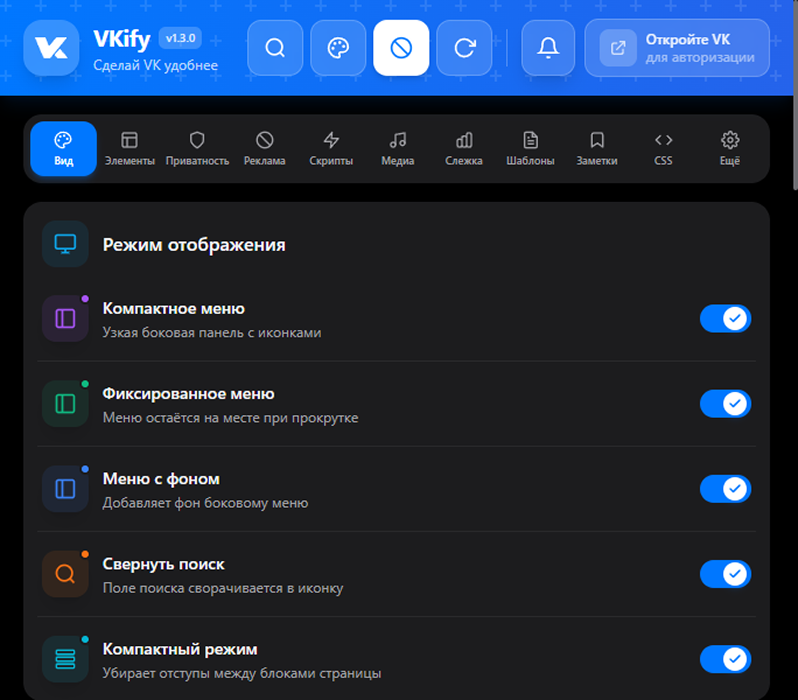
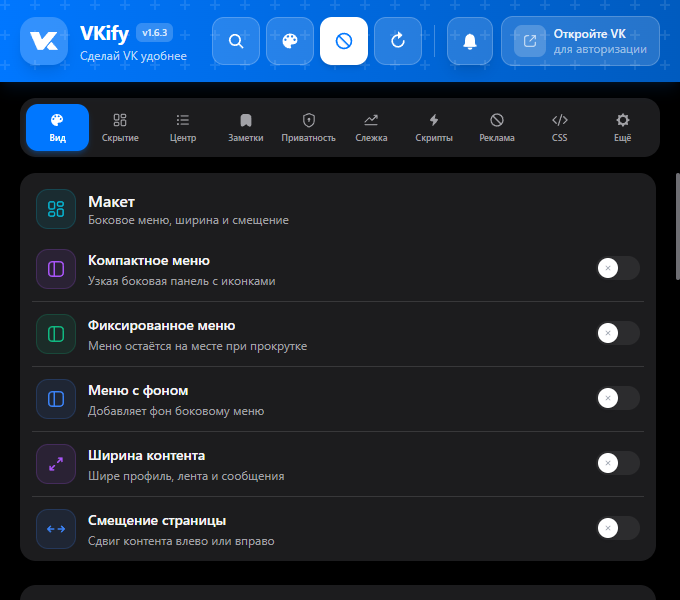
Revamp README content and update preview image
Rewrite and expand both English and Russian READMEs: reorganized and detailed feature sections (Appearance, Layout & navigation, Clean feed & ad blocking, Hiding elements, Privacy, Center/Hub, Activity tracking, Automation, Tools & settings), added specifics such as 72 themes, 60+ Google Fonts, message encryption (COFFEE and VKify E2E AES-256-GCM with PBKDF2), search hotkey (Ctrl/Cmd+K), download center behavior, cross-browser notes, and many UX clarifications to improve user-facing documentation. Also replaces the extension preview image (.github/assets/extension-preview.png).

diff --git a/README.md b/README.md
@@ -34,67 +34,91 @@
 
 ## Возможности
 
-### 🎨 Внешний вид (`Вид`)
-- 70+ готовых тем и тонкая настройка своими цветами
-- 60+ шрифтов и фоновые обои — картинки, видео, анимации
-- Регулировка скруглений, ширины контента, смещения страницы
-- Визуальные фильтры — ч/б, сепия, инверсия, высокий контраст и др.
-- Компактный режим, минималистичное и фиксированное меню
-- Редактор своего CSS со снипетами и подсветкой синтаксиса
+VKify собирает в одном расширении всё, чего обычно не хватает во ВКонтакте: оформление под себя, чистую ленту без рекламы, приватность переписки, скачивание медиа и инструменты для сообщений. Настройки открываются в попапе (10 вкладок) или прямо на странице — `vk.com/vkify_settings`. По `Ctrl/Cmd + K` работает поиск по всем функциям.
 
-### 🧩 Элементы (`Элементы`)
-- Прячьте то, что не нужно: истории, рекомендации, эмодзи-статус, мини-чат, кнопку «наверх», баннеры и пр.
+### Оформление
 
-### 🛡 Реклама (`Реклама`)
-- Реклама в ленте — два независимых фильтра (один режет до показа, второй чистит то, что просочилось)
-- Боковые баннеры
-- Блокировка трекеров и счётчиков
-- Свой список слов для блокировки и whitelist
-- Журнал заблокированного, чтобы видеть, что и за что было скрыто
+- 72 встроенные темы в 11 категориях (Classic, Soft, AMOLED, Colored, Neon, Nature, Minimal, Retro, Warm, Cool) и автоматическое переключение свет/тьма
+- Свой акцентный цвет для всей палитры интерфейса
+- Более 60 шрифтов через Google Fonts с настройкой размера, межстрочного интервала, насыщенности и стиля
+- Обои страницы: статичные картинки, видео и HTML-анимации, с размытием, затемнением и прозрачностью
+- Визуальные фильтры для изображений: чёрно-белый, сепия, инверсия, контраст, размытие, затемнение
+- Настраиваемый радиус скругления и форма аватарок (капля, лист, лепесток, клякса)
 
-### 🔒 Приватность (`Приватность`)
-- Шифрование сообщений — современный формат VKify E2E и совместимый COFFEE (Kate Mobile, VK Coffee, Laney, Vika)
-- Скрытие конкретных диалогов
-- Горячая клавиша «спрятать переписку» одним нажатием
-- Размытие страницы, когда окно теряет фокус
+### Макет и навигация
 
-### ⚡ Скрипты (`Скрипты`)
-- Прямые ссылки — обход редиректа `away.php`
-- Автодобавление в друзья по таймеру
-- Переключатель раскладки горячей клавишей
+- Широкий режим с адаптивным двухколоночным профилем
+- Настраиваемая ширина контента
+- Компактный режим — убирает лишние отступы между блоками (классический VK и VKUI)
+- Смещение страницы до ±600 px для широких мониторов
+- Минималистичное левое меню с подсказками и фиксацией при прокрутке
+- Скрытие отдельных пунктов и счётчиков левого меню ВКонтакте
+- Перестановка панелей мессенджера: список бесед справа, открытый диалог слева
+- Сворачивающийся поиск, кнопка «Наверх», скелетон-режим при загрузке
 
-### 👁 Слежка (`Слежка`)
-- Активность в сообщениях — печатает, читает, удаляет, заходит в звонок и т.п.
-- Онлайн-мониторинг с историей и графиками
-- Отслеживание профилей — смена аватара, статуса, числа друзей
-- Браузерные уведомления, отдельный список и журнал для каждой подсистемы
+### Чистая лента и блокировка рекламы
 
-### 🗂 Центр (`Центр`) — хаб со страницами
-Вкладка-контейнер с внутренними страницами (компактная навигация слева, как разделы в VK) — чтобы не плодить вкладки. Доступные страницы:
-- **Мессенджер** — всё про переписку в одном месте:
-  - **Быстрое копирование** — кнопка-копия у каждого сообщения. Shift+клик копирует диапазон
-  - **Экспорт диалогов** в JSON, TXT, HTML, HTML с фото внутри файла, ZIP-архив с папкой `photos/`. Встроенный поиск в экспорте и опция «расшифровать сохранённым ключом»
-  - **Шаблоны сообщений** с переменными (`%first_name%`, `%time%`, `%date%`, `%br%`) и прикреплёнными файлами; триггеры — «/» в начале строки, горячая клавиша, автоподсказка; опция «отправлять сразу»
-  - **Заметки** — кнопка-закладка у сообщения сохраняет его в локальный архив с поиском по тексту/автору/чату; всё хранится только у вас
-- **Плеер** — хоткеи плеера: пауза, переключение, перемотка, скорость. Можно сделать глобальными (работают с любой вкладки браузера)
-- **Лента** — разворачивание текста постов и скачивание историй (фото и видео) одним нажатием
-- **Видео** — скачивание видео с vkvideo.ru с выбором качества до 1080p
-- **Клипы** — скачивание VK Clips с выбором качества до 1080p
-- **Фото** — скачивание отдельного фото или целого альбома (ZIP) в подпапку
-- **Музыка** — сохранение треков в MP3 (теги, обложка, текст песни), загрузка нескольких треков сразу и автозапуск музыки после перезагрузки страницы
+- Блокировка левого рекламного блока
+- Блокировка рекламы в ленте на уровне API и отдельно через DOM-фильтр со своим списком ключевых слов
+- Блокировка трекеров и аналитики: Яндекс.Метрика, Google Analytics, Facebook Pixel и другие
+- Журнал блокировок с фильтрами, пагинацией и JSON-снимком для API-блокировок
 
-### 💻 CSS (`CSS`)
-- Встроенный редактор с подсветкой и автоматическим форматированием
-- Готовые сниппеты, импорт/экспорт
+### Скрытие элементов интерфейса
 
-### ⚙ Прочее (`Ещё`)
-- Тур по возможностям при первом открытии
-- Экспорт / импорт настроек, сброс к дефолтам
-- **Поиск по функциям** — `Ctrl/Cmd+K` открывает палитру со всеми возможностями расширения. Выбор результата — попап сам прыгает к нужной секции и подсвечивает её
-- **⭐ Избранные функции** — отмечайте те, которыми пользуетесь чаще: они закрепляются сверху списка
-- **Быстрые действия в шапке** попапа — поиск, тема, реклама, обновление активной вкладки
-- **Настройки прямо на странице VK** — откройте `vk.com/vkify_settings` или выберите «Настройки VKify» в выпадающем меню профиля
-- Поддержка vk.com, vk.ru, vkvideo.ru
+- Истории в ленте и истории возможных друзей на профиле
+- Блок написания поста и комментарии под постами
+- Рекомендации, карусель «возможные друзья», эмодзи-статус у имени
+- Промо-блок на профиле и реклама в музыке
+- Мини-чат, кнопка «Наверх», попап входа о новом сеансе
+- Пункты меню, счётчики, «Настройки» в меню
+- Недавние сообщества и рекомендуемые каналы в мессенджере
+
+### Приватность
+
+- Шифрование сообщений двумя протоколами: COFFEE (совместим с Kate Mobile, Laney, Vika) и VKify E2E v2 на AES-256-GCM с PBKDF2; входящие расшифровываются автоматически
+- Режим невидимки: вас не видно в сети, и при этом вы не видите чужой онлайн
+- Не показывать собеседнику «печатает» и не отмечать сообщения прочитанными
+- Скрытие переписок по горячей клавише и список спрятанных чатов
+- Размытие страницы при потере фокуса окна
+
+### Центр
+
+Хаб с инструментами для переписки, ленты и медиа — устроен как разделы VK, с левым рейлом и подстраницами.
+
+- **Сообщения** — быстрое копирование последнего сообщения, экспорт диалога в JSON, TXT, HTML или ZIP с вложениями, шаблоны и заметки
+- **Шаблоны** — редактор с переменными (`%first_name%`, `%title%`, `%date%` и др.), вызов по «/» или горячей клавише, режим «отправить сразу»
+- **Заметки** — привязка к диалогам, поиск по содержимому, закрепление, группировка по дням с аватарами авторов
+- **Лента** — раскрытие текста длинных постов, скачивание историй
+- **Видео** — скачивание с выбором качества от 1080p до 240p
+- **Клипы** — скачивание VK Clips с выбором качества
+- **Фото** — скачивание отдельных фото и целых альбомов в ZIP (до 1000 за запрос)
+- **Музыка** — скачивание треков и альбомов в MP3 с выбором битрейта (128/192/320), ID3-тегами и обложкой, подбором текста песни и форматом имени файла; пакетная загрузка со страницы аудио и мульти-загрузка своих файлов
+- **Плеер** — горячие клавиши аудиоплеера (play/pause, перемотка, скорость), локальные и глобальные через `chrome.commands`, автозапуск музыки после перезагрузки страницы
+- Центр загрузок на странице: прогресс, отмена в один клик с сохранением уже скачанного, фоновая работа
+
+### Слежка
+
+- Активность в сообщениях через перехват LongPoll: печать, голосовые, медиа, прочтение, редактирование, удаление (с текстом удалённого), входящие, звонки, смена невидимки
+- Онлайн-мониторинг: заходы и выходы, история и недельные графики, настраиваемый интервал опроса
+- Отслеживание профилей: смена аватара, статуса и числа друзей
+- Браузерные уведомления для всех подсистем, добавление пользователя из друзей, диалогов или по ID
+
+### Автоматизация
+
+- Авто-добавление друзей с лимитами и задержками
+- Переключатель раскладки клавиатуры (ru↔en) по горячей клавише
+- Обход away.php — внешние ссылки открываются напрямую, минуя редирект VK
+
+### Инструменты и настройки
+
+- Встроенный CSS-редактор с подсветкой, форматтером, живым превью и готовыми сниппетами
+- Экспорт и импорт настроек (статистика при импорте сохраняется)
+- Расшаренные темы по ссылке — параметр `vkify_theme` в URL применяет тему одним кликом
+- Встроенная страница настроек на vk.com и пункт «Настройки VKify» в меню профиля
+- Панель диагностики с кнопкой «Копировать отчёт» для багрепортов
+- Онбординг-тур при первом запуске
+- Поддержка vk.com, vk.ru и vkvideo.ru
+- Кросс-браузерность: Chrome, Firefox и Opera из единой кодовой базы
 
 ---
 

diff --git a/README.en.md b/README.en.md
@@ -34,68 +34,91 @@
 
 ## Features
 
-### 🎨 Appearance (`Вид` tab)
-- 70+ ready-made themes plus full custom color tweaking
-- 60+ fonts and wallpapers — images, videos, animations
-- Border radius, content width and page offset adjustments
-- Visual filters — grayscale, sepia, invert, high contrast and more
-- Compact mode, minimalistic and fixed sidebar
-- Custom CSS editor with snippets and syntax highlighting
+VKify packs everything VK usually lacks into one extension: your own look, an ad-free feed, private messaging, media downloads and messaging tools. Settings open in the popup (10 tabs) or right on the page at `vk.com/vkify_settings`. Press `Ctrl/Cmd + K` for search across every function.
 
-### 🧩 Elements (`Элементы` tab)
-- Hide what you don't need: stories, recommendations, emoji status, mini-chat, "back to top" button, banners, etc.
+### Appearance
 
-### 🛡 Ads (`Реклама` tab)
-- Feed ads — two independent filters (one cuts before render, the other cleans whatever slipped through)
-- Sidebar banners
-- Tracker and analytics blocker
-- Custom block-word list and whitelist
-- Block log so you can see what was hidden and why
+- 72 built-in themes across 11 categories (Classic, Soft, AMOLED, Colored, Neon, Nature, Minimal, Retro, Warm, Cool) plus automatic light/dark switching
+- Custom accent color for the whole interface palette
+- 60+ fonts via Google Fonts with size, line-height, weight and style controls
+- Page wallpapers: static images, video and HTML animations, with blur, dimming and opacity
+- Visual image filters: grayscale, sepia, invert, contrast, blur, dimming
+- Adjustable corner radius and avatar shape (drop, leaf, petal, blob)
 
-### 🔒 Privacy (`Приватность` tab)
-- Message encryption — modern VKify E2E and compatible COFFEE format (Kate Mobile, VK Coffee, Laney, Vika)
-- Hide specific dialogs
-- Hotkey to instantly hide open dialogs
+### Layout & navigation
+
+- Widescreen mode with an adaptive two-column profile
+- Custom content width
+- Compact mode that removes extra spacing between blocks (classic VK and VKUI)
+- Page offset up to ±600 px for wide monitors
+- Minimalistic left menu with tooltips and fixed-on-scroll positioning
+- Hide individual left-menu items and their counters
+- Swap messenger panels: conversation list on the right, open dialog on the left
+- Collapsible search, back-to-top button, skeleton mode while loading
+
+### Clean feed & ad blocking
+
+- Block the left ad block
+- Block feed ads at the API level and, separately, via a DOM filter with its own keyword list
+- Block trackers and analytics: Yandex.Metrica, Google Analytics, Facebook Pixel and others
+- Block log with filters, pagination and a JSON snapshot for API blocks
+
+### Hiding interface elements
+
+- Feed stories and the "people you may know" stories on profiles
+- The post composer and comments under posts
+- Recommendations, the "people you may know" carousel, the emoji status next to your name
+- The promo block on profiles and ads in the music section
+- Mini-chat, the back-to-top button, the new-session login popup
+- Menu items, counters and the "Settings" menu entry
+- Recent communities and recommended channels in the messenger
+
+### Privacy
+
+- Message encryption with two protocols: COFFEE (compatible with Kate Mobile, Laney, Vika) and VKify E2E v2 on AES-256-GCM with PBKDF2; incoming messages are decrypted automatically
+- Invisible mode: you stay hidden online and, in turn, can't see others' online status
+- Hide "typing…" from the other person and don't mark messages as read
+- Hide conversations with a hotkey, plus a list of hidden chats
 - Blur the page when the window loses focus
 
-### ⚡ Scripts (`Скрипты` tab)
-- Direct links — bypasses the `away.php` redirect
-- Auto add friends on a timer
-- Keyboard layout converter via hotkey
+### Center
 
-### 👁 Online Spy (`Слежка` tab)
-- Message activity — typing, reading, deleting, joining calls and so on
-- Online monitor with history and weekly charts
-- Profile tracker — avatar, status and friend count changes
-- Browser notifications, separate list and log per subsystem
+A hub for messaging, feed and media tools, built like VK's own sections with a left rail and subpages.
 
-### 🗂 Hub (`Центр` tab) — pages container
-A container tab with inner pages (compact left rail, VK-style sections) so the
-top bar doesn't keep growing. Available pages:
-- **Messages** — everything about conversations in one place:
-  - **Quick copy** — copy button next to every message. Shift-click copies a range
-  - **Dialog export** to JSON, TXT, HTML, HTML with embedded photos, or ZIP with a `photos/` folder. Built-in search and an option to decrypt with your saved key
-  - **Message templates** with variables (`%first_name%`, `%time%`, `%date%`, `%br%`) and file attachments; triggers — `/` at line start, hotkey, prefix autocomplete; auto-send option
-  - **Notes** — a bookmark button saves a message into a local archive with search by text/author/chat; stays only on your device
-- **Player** — player hotkeys: pause, switch, seek, speed. Can be made global (work from any browser tab)
-- **Feed** — expand post text and one-click story download (photos and videos)
-- **Video** — download videos from vkvideo.ru with a quality picker up to 1080p
-- **Clips** — download VK Clips with a quality picker up to 1080p
-- **Photos** — download a single photo or a whole album (ZIP) into a subfolder
-- **Music** — save tracks to MP3 (tags, cover art, lyrics), upload multiple tracks at once and auto-resume music after a page reload
+- **Messages** — quick-copy a message (Shift+click for a range), export a dialog to JSON, TXT, HTML or ZIP with attachments, plus templates and notes
+- **Templates** — an editor with variables (`%first_name%`, `%title%`, `%date%` and more), triggered by "/" or a hotkey, with an optional "send immediately" mode
+- **Notes** — tied to dialogs, searchable by content, pinnable, grouped by day with author avatars
+- **Feed** — expand long post text, download stories
+- **Video** — download with quality selection from 1080p down to 240p
+- **Clips** — download VK Clips with quality selection
+- **Photo** — download single photos and whole albums as ZIP (up to 1000 per request)
+- **Music** — download tracks and albums as MP3 with selectable bitrate (128/192/320), ID3 tags and cover art, lyrics lookup and a filename format; batch-download from the audio page and multi-upload your own files
+- **Player** — audio player hotkeys (play/pause, seek, speed), local and global via `chrome.commands`, plus resuming music after a page reload
+- On-page download center: progress, one-click cancel that keeps what's already downloaded, background operation
 
-### 💻 CSS (`CSS` tab)
-- Built-in editor with syntax highlighting and auto-formatting
-- Ready-to-use snippets, import/export
+### Activity tracking
 
-### ⚙ Other (`Ещё` tab)
-- Feature tour on first launch
-- Export / import / reset settings
-- **Function search** — `Ctrl/Cmd+K` opens a palette with every feature. Pick a result and the popup jumps to that section and highlights it
-- **⭐ Favorite functions** — star the ones you use the most: they pin to the top of the list
-- **Quick actions in the popup header** — search, theme, ads, reload active tab
-- **Settings right on the VK page** — open `vk.com/vkify_settings` or pick "VKify settings" from the profile dropdown menu
-- Supports vk.com, vk.ru, vkvideo.ru
+- Message activity via LongPoll interception: typing, voice messages, media, reads, edits, deletions (with the deleted text), incoming messages, calls, invisible-mode changes
+- Online monitoring: logins and logouts, history and weekly charts, configurable polling interval
+- Profile tracking: avatar, status and friend-count changes
+- Browser notifications for every subsystem; add a user from friends, dialogs or by ID
+
+### Automation
+
+- Auto-add friends with limits and delays
+- Keyboard layout switcher (ru↔en) on a hotkey
+- away.php bypass — external links open directly, skipping VK's redirect
+
+### Tools & settings
+
+- Built-in CSS editor with highlighting, a formatter, live preview and ready-made snippets
+- Export and import settings (statistics are preserved on import)
+- Shareable themes via link — a `vkify_theme` URL parameter applies a theme in one click
+- Built-in settings page on vk.com and a "VKify Settings" item in the profile menu
+- Diagnostics panel with a "Copy report" button for bug reports
+- Onboarding tour on first launch
+- Support for vk.com, vk.ru and vkvideo.ru
+- Cross-browser: Chrome, Firefox and Opera from a single codebase
 
 ---
 
